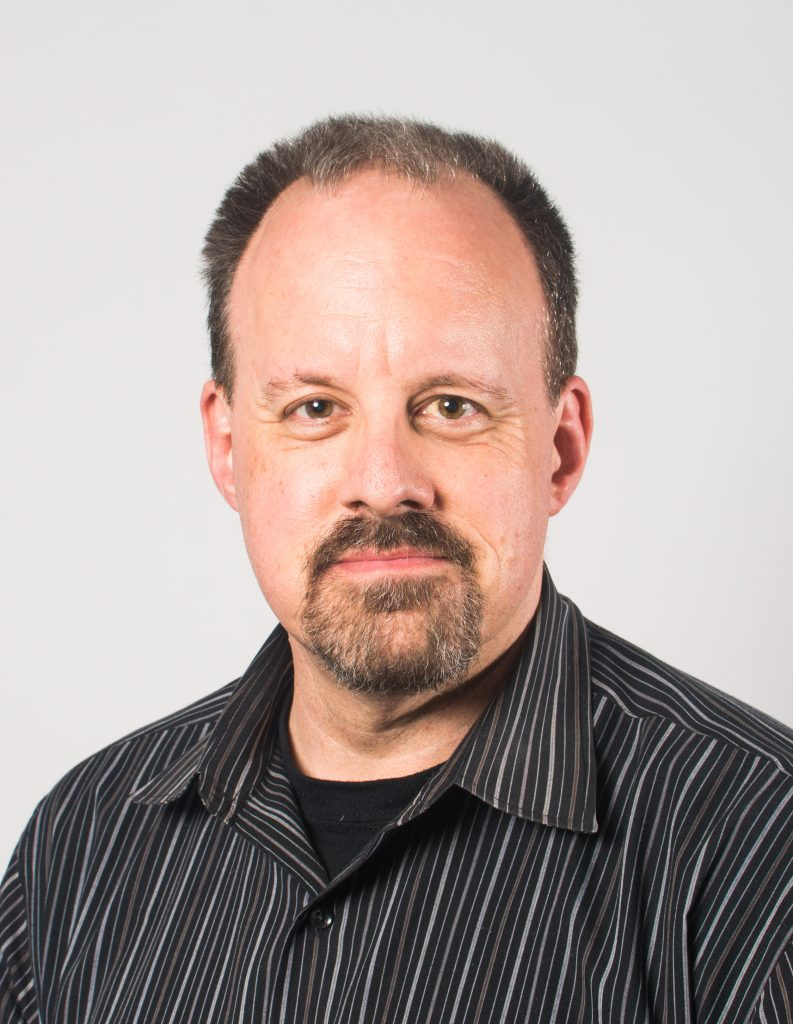
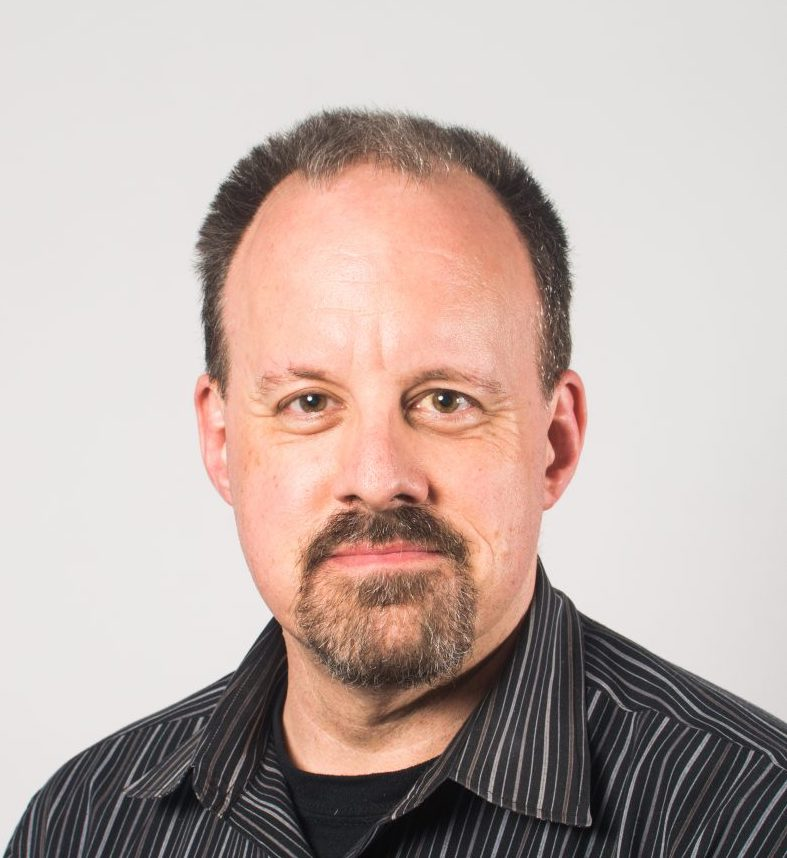
trying to fix Jim's head

diff --git a/col.html b/col.html
@@ -27,11 +27,12 @@
     </p>
   </div>
   <hr>
-  <h3 class="Names text-center"><strong>Dr. Jim Bjork</strong></h3>
+  <h3 class="Names text-center"><strong>Dr. James Bjork</strong></h3>
   <div>
     <p class="Description"><a href="https://rampages.us/jmbjork/" title="View Dr. Bjork's laboratory website"><img class="ProfileImage" src="assets/Bjork.jpg"></a>James Bjork is Associate Professor of Psychiatry at the Virginia Commonwealth University Medical School and its Institute for Drug and Alcohol Studies.  Other research interests include psychopharmacology and traumatic brain injury and drug abuse in military and other populations. Dr. Bjork has authored dozens of peer-reviewed behavioral and neuroimaging papers on human impulsivity and aggression, and is a frequent speaker to lay and professional audiences about the motivational neurocircuitry of addiction and the at-risk brain. When not studying or scanning the brain, Dr. Bjork moonlights as a professional saxophonist.
     </p>
   </div>
+  <hr>
 </body>
 <footer>
   <hr>
